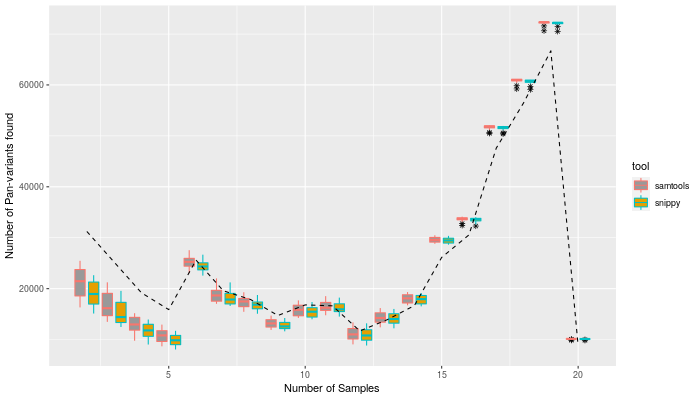
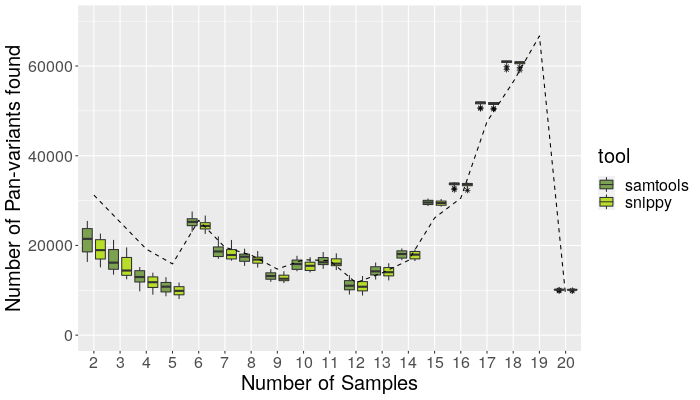
Updating scripts to make Figure 7

diff --git a/scripts/csv_to_paper_plots/recall_per_nb_of_samples/leandro/preprocessing.py b/scripts/csv_to_paper_plots/recall_per_nb_of_samples/leandro/preprocessing.py
@@ -10,10 +10,10 @@ import pandas as pd
 # In[2]:
 
 
-df_pvr_illumina = pd.read_csv("../pandora1_paper_analysis_output_20_way/illumina_analysis/recall_per_nb_of_samples/recall_per_nb_of_samples_pvr.plot_data.csv")
-df_pvr_nanopore = pd.read_csv("../pandora1_paper_analysis_output_20_way/nanopore_analysis/recall_per_nb_of_samples/recall_per_nb_of_samples_pvr.plot_data.csv")
-df_avgar_illumina = pd.read_csv("../pandora1_paper_analysis_output_20_way/illumina_analysis/recall_per_nb_of_samples/recall_per_nb_of_samples_avgar.plot_data.csv")
-df_avgar_nanopore = pd.read_csv("../pandora1_paper_analysis_output_20_way/nanopore_analysis/recall_per_nb_of_samples/recall_per_nb_of_samples_avgar.plot_data.csv")
+df_pvr_illumina = pd.read_csv("../../pandora1_paper_analysis_output_20_way/illumina_analysis/recall_per_nb_of_samples/recall_per_nb_of_samples_pvr.plot_data.csv")
+df_pvr_nanopore = pd.read_csv("../../pandora1_paper_analysis_output_20_way/nanopore_analysis/recall_per_nb_of_samples/recall_per_nb_of_samples_pvr.plot_data.csv")
+df_avgar_illumina = pd.read_csv("../../pandora1_paper_analysis_output_20_way/illumina_analysis/recall_per_nb_of_samples/recall_per_nb_of_samples_avgar.plot_data.csv")
+df_avgar_nanopore = pd.read_csv("../../pandora1_paper_analysis_output_20_way/nanopore_analysis/recall_per_nb_of_samples/recall_per_nb_of_samples_avgar.plot_data.csv")
 
 
 # In[3]:
